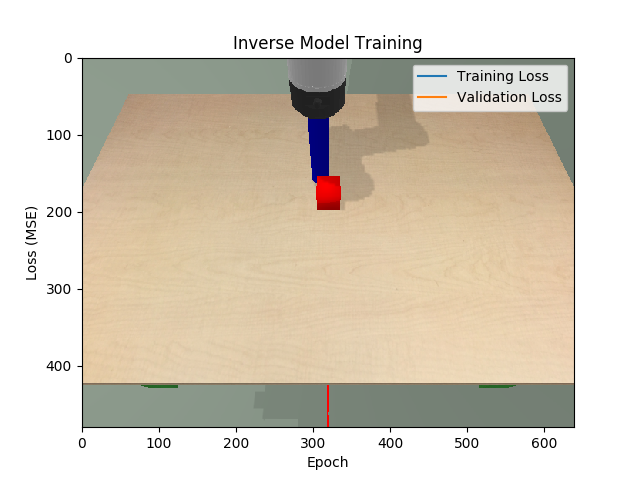
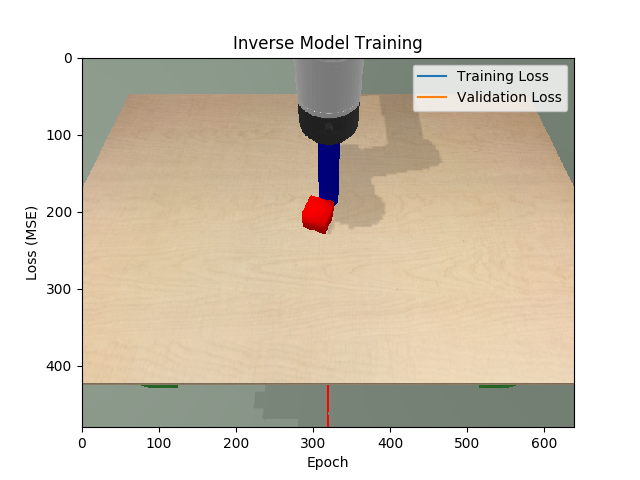
generate video

Changed region(s): [[0.4375, 0.1562, 0.6875, 0.5]]

diff --git a/push_env.py b/push_env.py
@@ -66,7 +66,7 @@ class PushingEnv(object):
 
     def move_ee_xyz(self, delta_xyz, save=False):
 	if save:
-	    step_size = 0.0015
+	    step_size = 0.015
             num_steps = int(np.linalg.norm(delta_xyz) / step_size)
 	    step = np.array(delta_xyz) / num_steps
 	    for i in range(num_steps):
